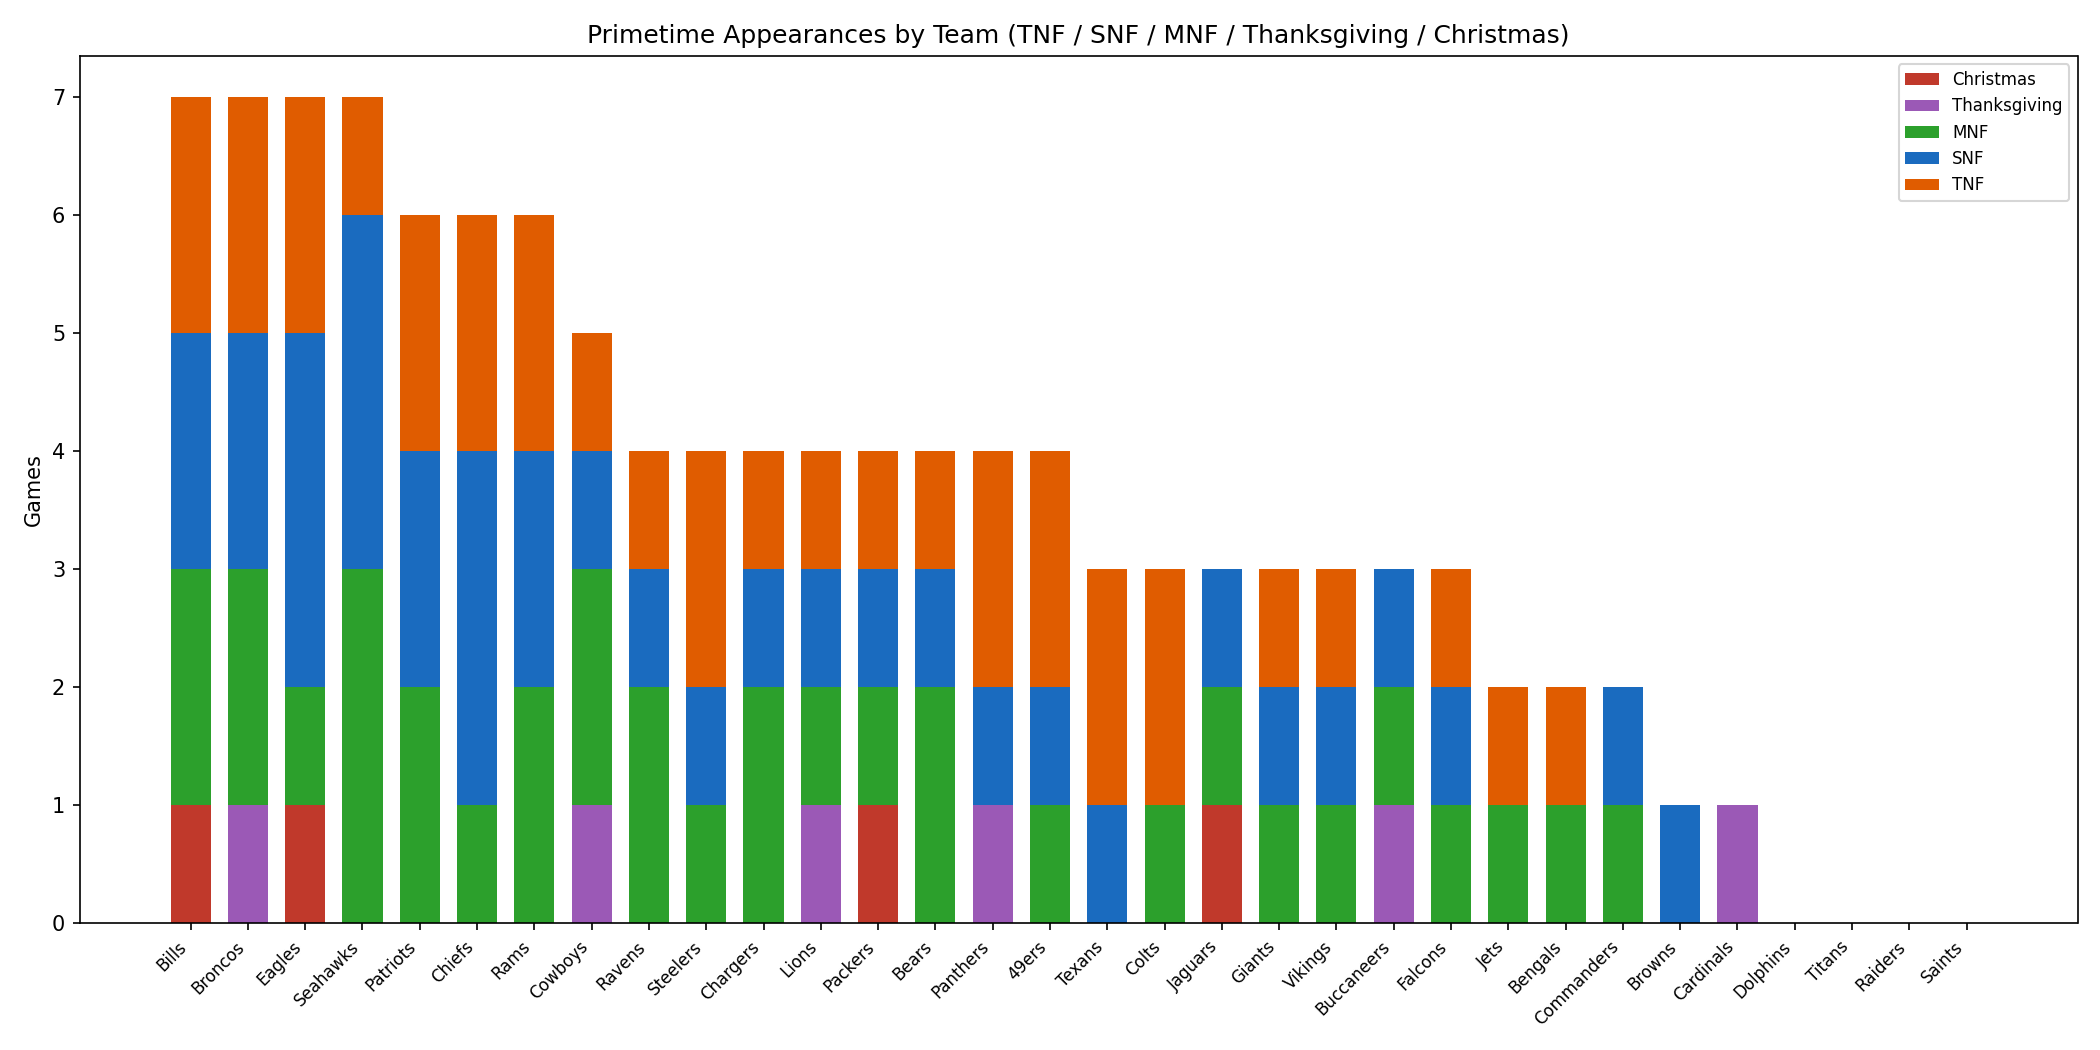
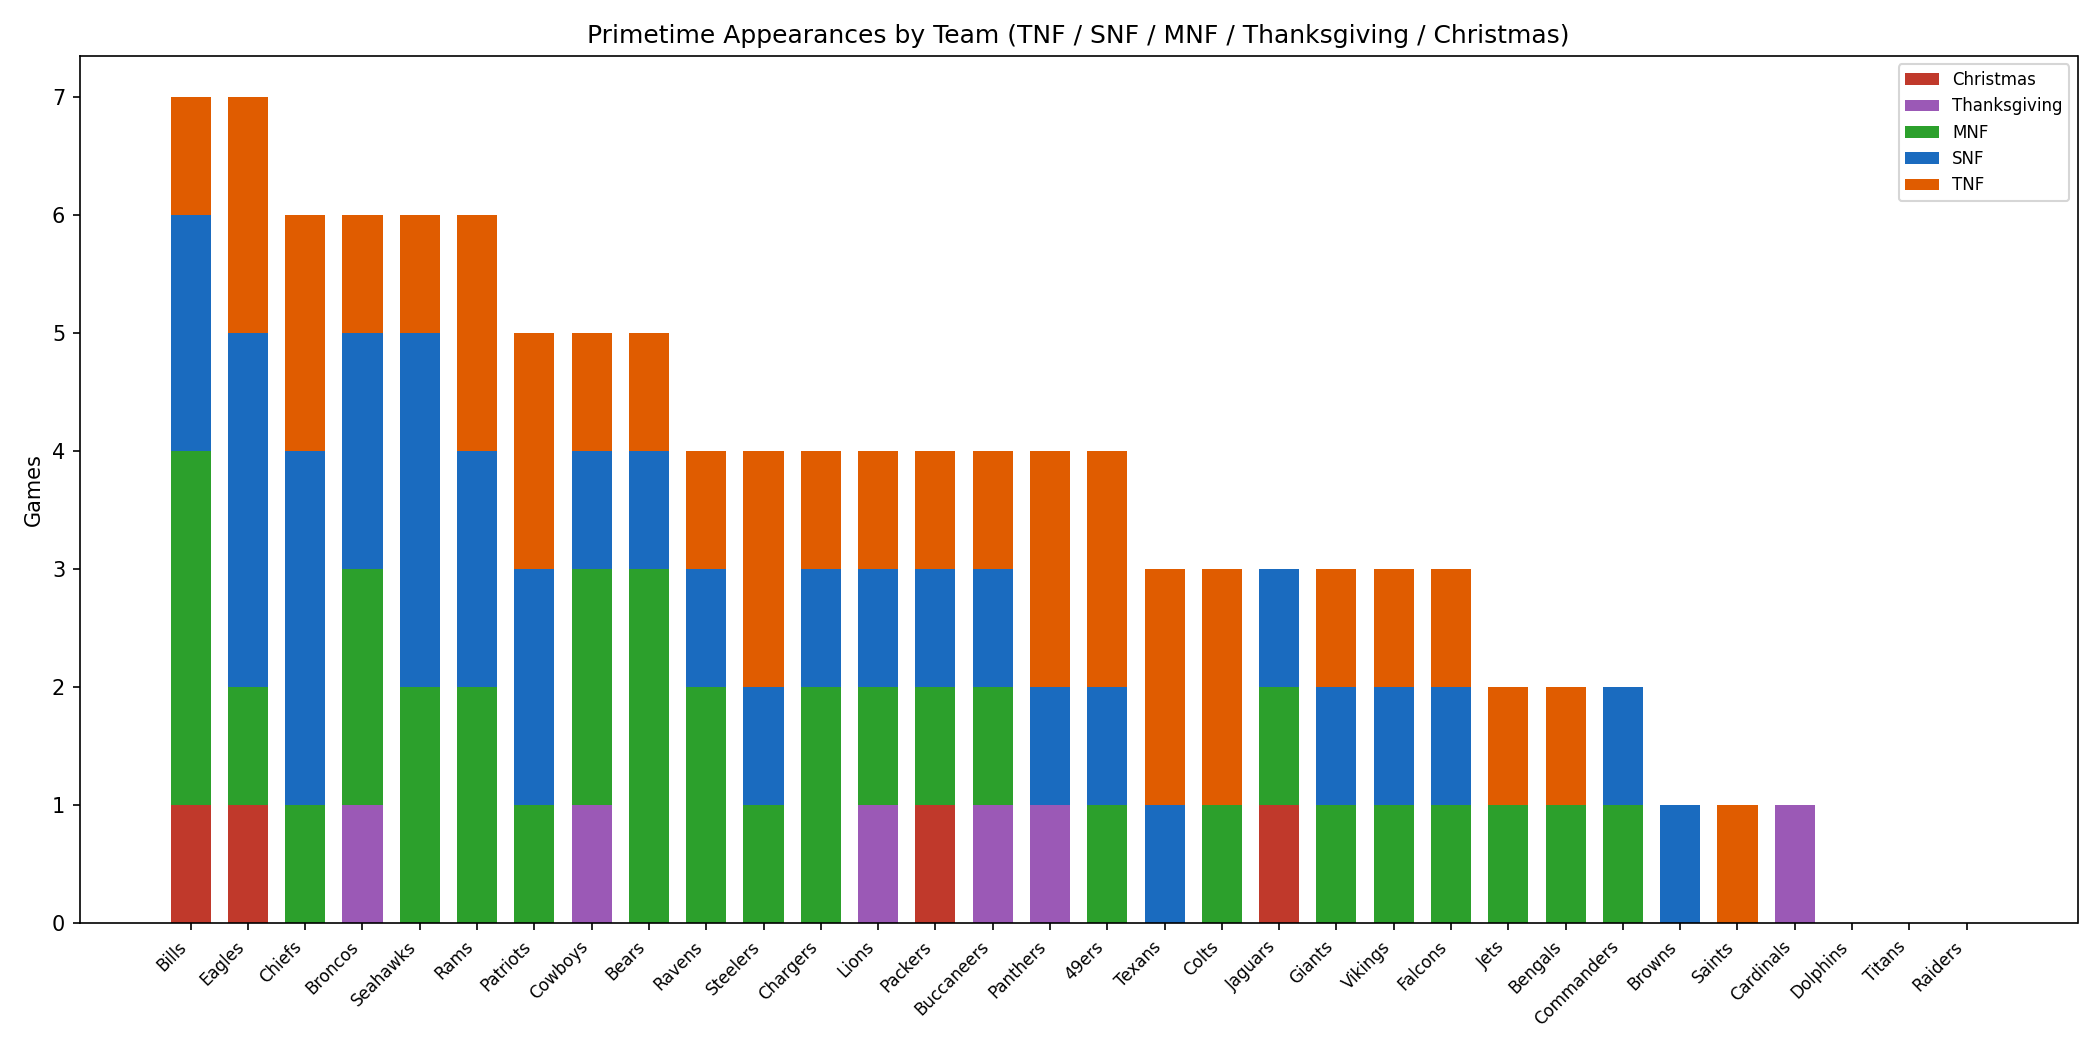
please

diff --git a/primetime.html b/primetime.html
@@ -206,9 +206,9 @@
     <div class="week-group">
       <div class="week-label">Week 6</div>
       <div class="game-card tnf">
-        <div class="team-logos"><img src="logos/buffalo-bills.png" alt="Bills"><span class="vs-sep">@</span><img src="logos/denver-broncos.png" alt="Broncos"></div>
+        <div class="team-logos"><img src="logos/new-orleans-saints.png" alt="Saints"><span class="vs-sep">@</span><img src="logos/tampa-bay-buccaneers.png" alt="Buccaneers"></div>
         <div class="game-info">
-          <div class="matchup">Bills @ Broncos</div>
+          <div class="matchup">Saints @ Buccaneers</div>
           <div class="game-meta">1:00 PM ET</div>
           <div class="game-note">Thursday Night Football</div>
         </div>
@@ -726,10 +726,10 @@
     <div class="week-group">
       <div class="week-label">Week 13</div>
       <div class="game-card mnf">
-        <div class="team-logos"><img src="logos/new-england-patriots.png" alt="Patriots"><span class="vs-sep">@</span><img src="logos/seattle-seahawks.png" alt="Seahawks"></div>
+        <div class="team-logos"><img src="logos/chicago-bears.png" alt="Bears"><span class="vs-sep">@</span><img src="logos/buffalo-bills.png" alt="Bills"></div>
         <div class="game-info">
-          <div class="matchup">Patriots @ Seahawks</div>
-          <div class="game-meta">4:25 PM ET</div>
+          <div class="matchup">Bears @ Bills</div>
+          <div class="game-meta">1:00 PM ET</div>
           <div class="game-note">Monday Night Football</div>
         </div>
         <span class="badge mnf">MNF</span>

diff --git a/schedules/buffalo-bills.html b/schedules/buffalo-bills.html
@@ -122,9 +122,9 @@
         </tr>
         <tr class="">
           <td>6</td>
-          <td>October 15</td>
+          <td>October 18</td>
           <td class="opponent">at <span class="opp-name">Broncos</span></td>
-          <td>1:00 PM ET (Thursday Night Football)</td>
+          <td>1:00 PM ET</td>
         </tr>
         <tr class="divisional">
           <td>7</td>
@@ -163,9 +163,9 @@
         </tr>
         <tr class="">
           <td>13</td>
-          <td>December 6</td>
+          <td>December 7</td>
           <td class="opponent"><span class="opp-name">Bears</span></td>
-          <td>1:00 PM ET</td>
+          <td>1:00 PM ET (Monday Night Football)</td>
         </tr>
         <tr class="">
           <td>14</td>

diff --git a/schedules/tampa-bay-buccaneers.html b/schedules/tampa-bay-buccaneers.html
@@ -121,9 +121,9 @@
         </tr>
         <tr class="divisional">
           <td>6</td>
-          <td>October 18</td>
+          <td>October 15</td>
           <td class="opponent"><span class="opp-name">Saints</span></td>
-          <td>1:00 PM ET</td>
+          <td>1:00 PM ET (Thursday Night Football)</td>
         </tr>
         <tr class="divisional">
           <td>7</td>

diff --git a/schedules/new-orleans-saints.html b/schedules/new-orleans-saints.html
@@ -122,9 +122,9 @@
         </tr>
         <tr class="divisional">
           <td>6</td>
-          <td>October 18</td>
+          <td>October 15</td>
           <td class="opponent">at <span class="opp-name">Buccaneers</span></td>
-          <td>1:00 PM ET</td>
+          <td>1:00 PM ET (Thursday Night Football)</td>
         </tr>
         <tr class="">
           <td>7</td>

diff --git a/schedules/new-england-patriots.html b/schedules/new-england-patriots.html
@@ -163,9 +163,9 @@
         </tr>
         <tr class="">
           <td>13</td>
-          <td>December 7</td>
+          <td>December 6</td>
           <td class="opponent">at <span class="opp-name">Seahawks</span></td>
-          <td>4:25 PM ET (Monday Night Football)</td>
+          <td>4:25 PM ET</td>
         </tr>
         <tr class="divisional">
           <td>14</td>

diff --git a/schedules/chicago-bears.html b/schedules/chicago-bears.html
@@ -163,9 +163,9 @@
         </tr>
         <tr class="">
           <td>13</td>
-          <td>December 6</td>
+          <td>December 7</td>
           <td class="opponent">at <span class="opp-name">Bills</span></td>
-          <td>1:00 PM ET</td>
+          <td>1:00 PM ET (Monday Night Football)</td>
         </tr>
         <tr class="divisional">
           <td>14</td>

diff --git a/schedules/denver-broncos.html b/schedules/denver-broncos.html
@@ -122,9 +122,9 @@
         </tr>
         <tr class="">
           <td>6</td>
-          <td>October 15</td>
+          <td>October 18</td>
           <td class="opponent"><span class="opp-name">Bills</span></td>
-          <td>1:00 PM ET (Thursday Night Football)</td>
+          <td>1:00 PM ET</td>
         </tr>
         <tr class="bye-row">
           <td>7</td>

diff --git a/schedules/seattle-seahawks.html b/schedules/seattle-seahawks.html
@@ -163,9 +163,9 @@
         </tr>
         <tr class="">
           <td>13</td>
-          <td>December 7</td>
+          <td>December 6</td>
           <td class="opponent"><span class="opp-name">Patriots</span></td>
-          <td>4:25 PM ET (Monday Night Football)</td>
+          <td>4:25 PM ET</td>
         </tr>
         <tr class="">
           <td>14</td>
